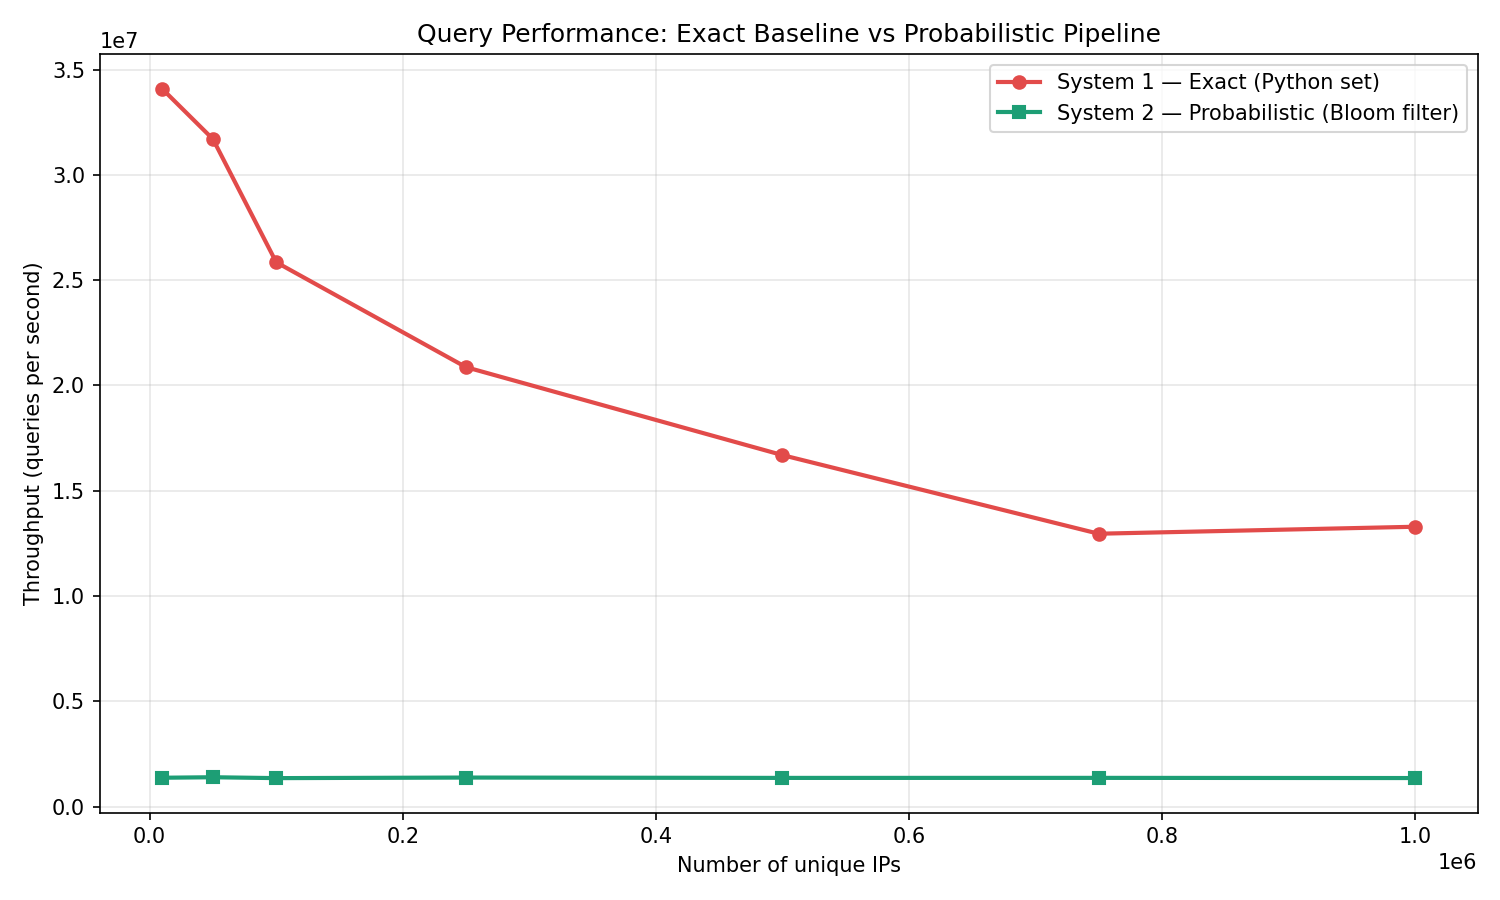
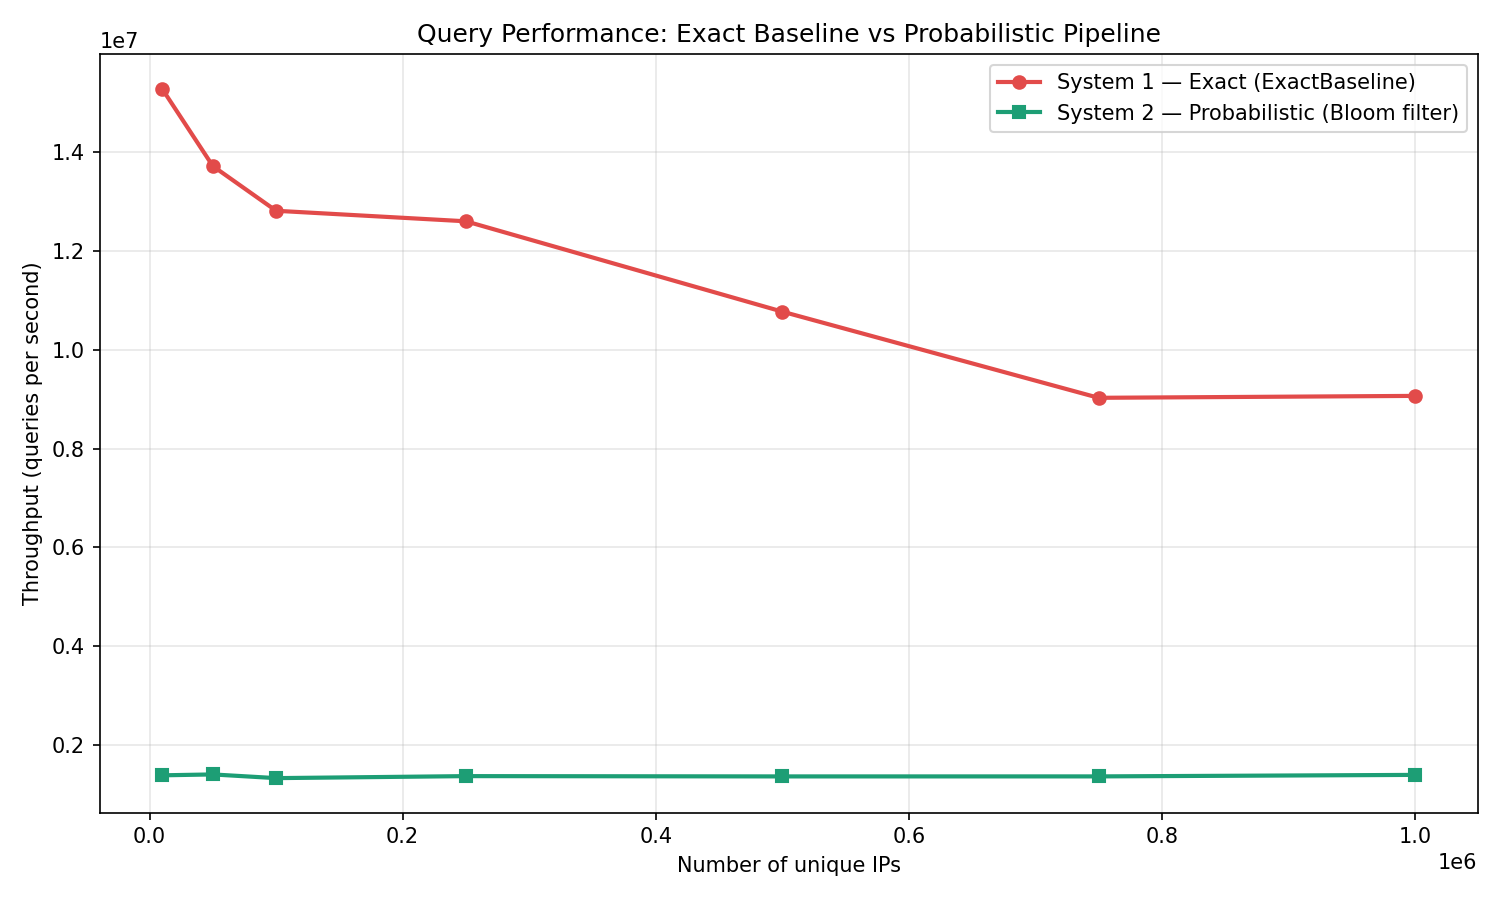
update benchmarks to use ExactBaseline class, regenerate plots

diff --git a/evaluation/benchmark_memory.py b/evaluation/benchmark_memory.py
@@ -1,5 +1,4 @@
 import sys
-import os
 import tracemalloc
 import matplotlib.pyplot as plt
 
@@ -7,8 +6,9 @@ sys.path.insert(0, '/Users/sun/CS4810-Project')
 
 from src.bloom_filter import BloomFilter
 from src.hyperloglog import HyperLogLog
+from src.baseline_system import ExactBaseline
 
-# ── Generate synthetic IPs for benchmarking ──
+
 def generate_ips(n):
     ips = []
     for i in range(n):
@@ -19,6 +19,7 @@ def generate_ips(n):
         ips.append(f"{a}.{b}.{c}.{d}")
     return ips
 
+
 sizes = [10000, 50000, 100000, 250000, 500000, 750000, 1000000]
 
 system1_memory = []
@@ -27,16 +28,16 @@ system2_memory = []
 for n in sizes:
     ips = generate_ips(n)
 
-    # ── System 1: exact baseline (Python set) ──
+    # ── System 1: ExactBaseline ──
     tracemalloc.start()
-    exact = set()
+    baseline = ExactBaseline()
     for ip in ips:
-        exact.add(ip)
+        baseline.update(ip)
     _, peak1 = tracemalloc.get_traced_memory()
     tracemalloc.stop()
-    system1_memory.append(peak1 / 1024 / 1024)  # convert to MB
+    system1_memory.append(peak1 / 1024 / 1024)
 
-    # ── System 2: probabilistic (Bloom filter + HyperLogLog) ──
+    # ── System 2: Bloom filter + HyperLogLog ──
     tracemalloc.start()
     bf = BloomFilter(n=n, p=0.01)
     hll = HyperLogLog(b=10)
@@ -45,13 +46,12 @@ for n in sizes:
         hll.add(ip)
     _, peak2 = tracemalloc.get_traced_memory()
     tracemalloc.stop()
-    system2_memory.append(peak2 / 1024 / 1024)  # convert to MB
+    system2_memory.append(peak2 / 1024 / 1024)
 
     print(f"n={n:>8,} | System 1: {system1_memory[-1]:.2f}MB | System 2: {system2_memory[-1]:.2f}MB")
 
-# ── Plot ──
 plt.figure(figsize=(10, 6))
-plt.plot(sizes, system1_memory, marker='o', label='System 1 — Exact (Python set)', color='#E24B4A', linewidth=2)
+plt.plot(sizes, system1_memory, marker='o', label='System 1 — Exact (ExactBaseline)', color='#E24B4A', linewidth=2)
 plt.plot(sizes, system2_memory, marker='s', label='System 2 — Probabilistic (Bloom + HLL)', color='#1D9E75', linewidth=2)
 plt.xlabel('Number of unique IPs')
 plt.ylabel('Peak memory usage (MB)')

diff --git a/evaluation/benchmark_query.py b/evaluation/benchmark_query.py
@@ -6,6 +6,8 @@ sys.path.insert(0, '/Users/sun/CS4810-Project')
 
 from src.bloom_filter import BloomFilter
 from src.hyperloglog import HyperLogLog
+from src.baseline_system import ExactBaseline
+
 
 def generate_ips(n):
     ips = []
@@ -17,6 +19,7 @@ def generate_ips(n):
         ips.append(f"{a}.{b}.{c}.{d}")
     return ips
 
+
 sizes = [10000, 50000, 100000, 250000, 500000, 750000, 1000000]
 
 system1_query = []
@@ -26,7 +29,9 @@ for n in sizes:
     ips = generate_ips(n)
 
     # ── Build System 1 ──
-    exact = set(ips)
+    baseline = ExactBaseline()
+    for ip in ips:
+        baseline.update(ip)
 
     # ── Build System 2 ──
     bf = BloomFilter(n=n, p=0.01)
@@ -38,7 +43,7 @@ for n in sizes:
     # ── Query System 1 ──
     start = time.perf_counter()
     for ip in ips:
-        _ = ip in exact
+        _ = baseline.is_member(ip)
     elapsed1 = time.perf_counter() - start
     system1_query.append(n / elapsed1)
 
@@ -49,11 +54,10 @@ for n in sizes:
     elapsed2 = time.perf_counter() - start
     system2_query.append(n / elapsed2)
 
-    print(f"n={n:>8,} | System 1: {system1_query[-1]:,.0f} ops/sec | System 2: {system2_query[-1]:,.0f} ops/sec")
+    print(f"n={n:>8,} | System 1: {system1_query[-1]:,.0f} queries/sec | System 2: {system2_query[-1]:,.0f} queries/sec")
 
-# ── Plot ──
 plt.figure(figsize=(10, 6))
-plt.plot(sizes, system1_query, marker='o', label='System 1 — Exact (Python set)', color='#E24B4A', linewidth=2)
+plt.plot(sizes, system1_query, marker='o', label='System 1 — Exact (ExactBaseline)', color='#E24B4A', linewidth=2)
 plt.plot(sizes, system2_query, marker='s', label='System 2 — Probabilistic (Bloom filter)', color='#1D9E75', linewidth=2)
 plt.xlabel('Number of unique IPs')
 plt.ylabel('Throughput (queries per second)')

diff --git a/evaluation/benchmark_throughput.py b/evaluation/benchmark_throughput.py
@@ -6,6 +6,8 @@ sys.path.insert(0, '/Users/sun/CS4810-Project')
 
 from src.bloom_filter import BloomFilter
 from src.hyperloglog import HyperLogLog
+from src.baseline_system import ExactBaseline
+
 
 def generate_ips(n):
     ips = []
@@ -17,6 +19,7 @@ def generate_ips(n):
         ips.append(f"{a}.{b}.{c}.{d}")
     return ips
 
+
 sizes = [10000, 50000, 100000, 250000, 500000, 750000, 1000000]
 
 system1_throughput = []
@@ -25,15 +28,15 @@ system2_throughput = []
 for n in sizes:
     ips = generate_ips(n)
 
-    # ── System 1: exact baseline ──
-    exact = set()
+    # ── System 1: ExactBaseline ──
+    baseline = ExactBaseline()
     start = time.perf_counter()
     for ip in ips:
-        exact.add(ip)
+        baseline.update(ip)
     elapsed1 = time.perf_counter() - start
     system1_throughput.append(n / elapsed1)
 
-    # ── System 2: probabilistic ──
+    # ── System 2: Bloom filter + HyperLogLog ──
     bf = BloomFilter(n=n, p=0.01)
     hll = HyperLogLog(b=10)
     start = time.perf_counter()
@@ -45,9 +48,8 @@ for n in sizes:
 
     print(f"n={n:>8,} | System 1: {system1_throughput[-1]:,.0f} ops/sec | System 2: {system2_throughput[-1]:,.0f} ops/sec")
 
-# ── Plot ──
 plt.figure(figsize=(10, 6))
-plt.plot(sizes, system1_throughput, marker='o', label='System 1 — Exact (Python set)', color='#E24B4A', linewidth=2)
+plt.plot(sizes, system1_throughput, marker='o', label='System 1 — Exact (ExactBaseline)', color='#E24B4A', linewidth=2)
 plt.plot(sizes, system2_throughput, marker='s', label='System 2 — Probabilistic (Bloom + HLL)', color='#1D9E75', linewidth=2)
 plt.xlabel('Number of unique IPs')
 plt.ylabel('Throughput (operations per second)')
